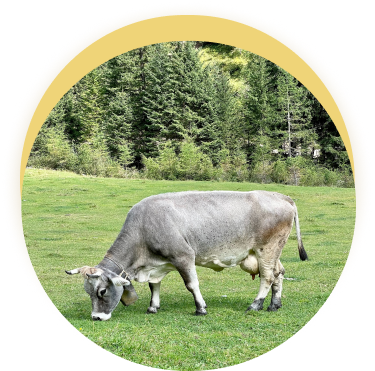
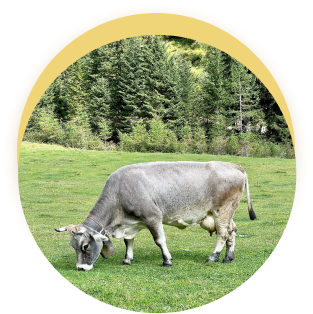
aboutmobilfix

diff --git a/src/partials/about.html b/src/partials/about.html
@@ -3,66 +3,35 @@
     <div class="conteiner">
         <h2 class="about__title">TRADITION AND LOVE</h2>
         <p class="about__title--part">HOW IT'S MADE?</p>
-        <picture class="about__picture">
-            <source srcset="./images/cow-desktop-1x.png 1x, ./images/cow-desktop-2x.png 2x" type="image/png"
-                media="(min-width:1200px)" />
-            <source srcset="./images/cow-tablet-1x.png 1x, ./images/cow-tablet-2x.png 2x" type="image/png"
-                media="(min-width:768px)" />
-            <source srcset="./images/cow-mobile-1x.png 1x, ./images/cow-mobile-2x.png 2x" type="image/png"
-                media="(max-width:767px)" />
-            <img src="./images/cow-desktop-2x.png" alt="cow" width="500" height="529" />
-        </picture>
-        <p class="about__text">
-            Ice is a place where you will become not only a little happier, but also
-            healthier. Health is the main value for us, and we follow it when creating
-            our handmade desserts.
-        </p>
-        <p class="about__hightext">
-            We use traditional recipes and 100% natural ingredients. Our products are
-            so natural that they can be given to children from the age of three years.
-            Sweets lovers can expect 55 types of ice cream, 15 types of coffee and 23
-            milkshakes.
-        </p>
+        <div class="about__picture">
+            <picture>
+                <source srcset="./images/cow-desktop-1x.png 1x, ./images/cow-desktop-2x.png 2x" type="image/png"
+                    media="(min-width:1200px)" />
+                <source srcset="./images/cow-tablet-1x.png 1x, ./images/cow-tablet-2x.png 2x" type="image/png"
+                    media="(min-width:768px)" />
+                <source srcset="./images/cow-mobile-1x.png 1x, 
+            ./images/cow-mobile-2x.png 2x" type="image/png" media="(max-width:767px)" />
+                <img src="./images/cow-mobile-1x.png" alt="cow" width="336" height="355" />
+            </picture>
+        </div>
+        <div class="about__text">
+            <p class="about__text--high">
+                Ice is a place where you will become not only a little happier, but also
+                healthier. Health is the main value for us, and we follow it when creating
+                our handmade desserts.
+            </p>
+            <p class="about__text--low">
+                We use traditional recipes and 100% natural ingredients. Our products are
+                so natural that they can be given to children from the age of three years.
+                Sweets lovers can expect 55 types of ice cream, 15 types of coffee and 23
+                milkshakes.
+            </p>
+        </div>
         <button type="button" class="about__button">
             Read more
             <svg class="about__button--icon" width="5" height="8">
                 <use href="./images/svg/svg-sprite.svg#icon-Vector-1"></use>
             </svg>
         </button>
-        <ul class="advantages">
-            <li class="advantages__item">
-                <div class="advantages__item--picture">
-                    <svg class="advantages__item--icon" width="36" height="36">
-                        <use href="./images/svg/svg-sprite.svg#cow"></use>
-                    </svg>
-                </div>
-                <p class="advantages__item--index">721</p>
-                <p class="advantages__item--text">
-                    Aliquam ac dui vel dui vulputate consectetur. Mauris massa.
-                </p>
-            </li>
-            <li class="advantages__item">
-                <div class="advantages__item--picture">
-                    <svg class="advantages__item--icon" width="36" height="36">
-                        <use href="./images/svg/svg-sprite.svg#weight"></use>
-                    </svg>
-                </div>
-                <p class="advantages__item--index">16kg</p>
-                <p class="advantages__item--text">
-                    Aliquam ac dui vel dui vulputate consectetur. Mauris massa.
-                </p>
-            </li>
-            <li class="advantages__item">
-                <div class="advantages__item--picture">
-                    <svg class="advantages__item--icon" width="36" height="36">
-                        <use href="./images/svg/svg-sprite.svg#ice-crema"></use>
-                    </svg>
-                </div>
-                <p class="advantages__item--index">84</p>
-                <p class="advantages__item--text">
-                    Aliquam ac dui vel dui vulputate consectetur. Mauris massa.
-                </p>
-            </li>
-        </ul>
     </div>
 </section>

diff --git a/src/partials/advantages.html b/src/partials/advantages.html
@@ -1,1 +1,38 @@
 <!-- !Мазка Андрей -->
+<section class="advantages">
+    <ul class="advantages__list">
+        <li class="advantages__item">
+            <div class="advantages__item--picture">
+                <svg class="advantages__item--icon" width="36" height="36">
+                    <use href="./images/svg/svg-sprite.svg#cow"></use>
+                </svg>
+            </div>
+            <p class="advantages__item--index">721</p>
+            <p class="advantages__item--text">
+                Aliquam ac dui vel dui vulputate consectetur. Mauris massa.
+            </p>
+        </li>
+        <li class="advantages__item">
+            <div class="advantages__item--picture">
+                <svg class="advantages__item--icon" width="36" height="36">
+                    <use href="./images/svg/svg-sprite.svg#weight"></use>
+                </svg>
+            </div>
+            <p class="advantages__item--index">16kg</p>
+            <p class="advantages__item--text">
+                Aliquam ac dui vel dui vulputate consectetur. Mauris massa.
+            </p>
+        </li>
+        <li class="advantages__item">
+            <div class="advantages__item--picture">
+                <svg class="advantages__item--icon" width="36" height="36">
+                    <use href="./images/svg/svg-sprite.svg#ice-crema"></use>
+                </svg>
+            </div>
+            <p class="advantages__item--index">84</p>
+            <p class="advantages__item--text">
+                Aliquam ac dui vel dui vulputate consectetur. Mauris massa.
+            </p>
+        </li>
+    </ul>
+</section>

diff --git a/src/sass/components/_about.scss b/src/sass/components/_about.scss
@@ -10,12 +10,27 @@
   color: #fcfcfc;
   width: 200px;
   margin: 0 auto 32px;
+  @include for-size(tablet) {
+    width: 100%;
+    margin-bottom: 72px;
+  }
+  @include for-size(desktop) {
+  }
 }
 .about__picture {
-  display: block;
+  display: flex;
+  justify-content: center;
   margin-bottom: 40px;
+  @include for-size(tablet) {
+  }
+  @include for-size(desktop) {
+  }
 }
 .about__text {
+  display: flex;
+  flex-direction: column;
+}
+.about__text--high {
   font-size: 12px;
   line-height: 1.76;
   text-align: center;
@@ -24,7 +39,7 @@
   width: 220px;
   margin: 0 auto 4px;
 }
-.about__hightext {
+.about__text--low {
   font-size: 12px;
   line-height: 1.62;
   text-align: center;
@@ -63,44 +78,4 @@
   top: 17px;
   right: 37px;
   border: 2px;
-}
-.advantages {
-}
-.advantages__item {
-  margin-bottom: 27px;
-}
-.advantages__item--picture {
-  display: flex;
-  align-items: center;
-  justify-content: center;
-  border-radius: 50%;
-  width: 50px;
-  height: 50px;
-  background-color: #f8d24e;
-  margin: 0 auto 16px;
-}
-.advantages__item--icon {
-}
-.advantages__item--index {
-  padding-top: 16px;
-  font-family: 'Roboto';
-  font-style: normal;
-  font-weight: 700;
-  font-size: 36px;
-  line-height: 1.17px;
-  text-align: center;
-  letter-spacing: 0.04em;
-  text-transform: uppercase;
-  color: #fcfcfc;
-  margin-bottom: 18px;
-}
-.advantages__item--text {
-  width: 230px;
-  font-weight: 700;
-  font-size: 12px;
-  line-height: 1.7;
-  text-align: center;
-  color: #fcfcfc;
-  margin: 0 auto;
-  padding-top: 18px;
 }

diff --git a/src/sass/components/_advantages.scss b/src/sass/components/_advantages.scss
@@ -1,1 +1,39 @@
 // !Мазка Андрей
+.advantages {
+}
+.advantages__item {
+  margin-bottom: 25px;
+}
+.advantages__item--picture {
+  display: flex;
+  align-items: center;
+  justify-content: center;
+  border-radius: 50%;
+  width: 50px;
+  height: 50px;
+  background-color: #f8d24e;
+  margin: 0 auto 16px;
+}
+.advantages__item--icon {
+}
+.advantages__item--index {
+  font-family: 'Roboto';
+  font-style: normal;
+  font-weight: 700;
+  font-size: 36px;
+  line-height: 1.17;
+  text-align: center;
+  letter-spacing: 0.04em;
+  text-transform: uppercase;
+  color: #fcfcfc;
+  margin-bottom: 18px;
+}
+.advantages__item--text {
+  width: 230px;
+  font-weight: 700;
+  font-size: 12px;
+  line-height: 1.7;
+  text-align: center;
+  color: #fcfcfc;
+  margin: 0 auto;
+}
